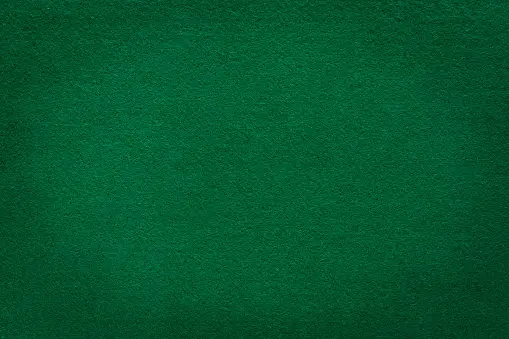
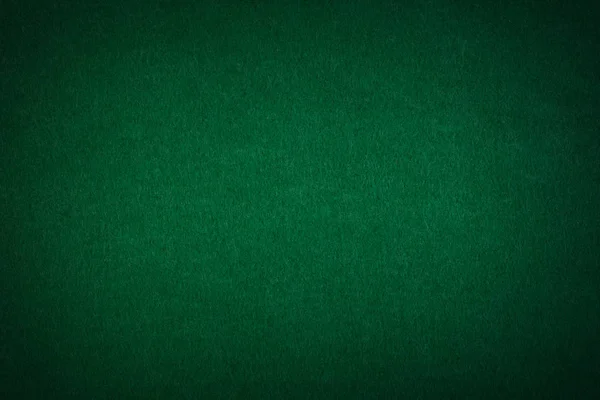
background and text colors

diff --git a/BlackJack/Form1.Designer.cs b/BlackJack/Form1.Designer.cs
@@ -61,15 +61,20 @@
             // lblscorePlayer
             // 
             lblscorePlayer.AutoSize = true;
+            lblscorePlayer.BackColor = Color.Transparent;
+            lblscorePlayer.Font = new Font("Segoe UI", 10F, FontStyle.Regular, GraphicsUnit.Point);
+            lblscorePlayer.ForeColor = SystemColors.ButtonFace;
             lblscorePlayer.Location = new Point(850, 421);
             lblscorePlayer.Name = "lblscorePlayer";
-            lblscorePlayer.Size = new Size(98, 25);
+            lblscorePlayer.Size = new Size(106, 28);
             lblscorePlayer.TabIndex = 0;
             lblscorePlayer.Text = "Your score:";
             // 
             // lblDealer
             // 
             lblDealer.AutoSize = true;
+            lblDealer.BackColor = Color.Transparent;
+            lblDealer.ForeColor = SystemColors.ButtonFace;
             lblDealer.Location = new Point(850, 9);
             lblDealer.Name = "lblDealer";
             lblDealer.Size = new Size(113, 25);
@@ -219,9 +224,12 @@
             // dealerDraws
             // 
             dealerDraws.AutoSize = true;
+            dealerDraws.BackColor = Color.Transparent;
+            dealerDraws.Font = new Font("Segoe UI", 10F, FontStyle.Regular, GraphicsUnit.Point);
+            dealerDraws.ForeColor = SystemColors.ButtonFace;
             dealerDraws.Location = new Point(399, 144);
             dealerDraws.Name = "dealerDraws";
-            dealerDraws.Size = new Size(118, 25);
+            dealerDraws.Size = new Size(128, 28);
             dealerDraws.TabIndex = 18;
             dealerDraws.Text = "Dealer draws:";
             // 

diff --git a/BlackJack/Properties/Resources.Designer.cs b/BlackJack/Properties/Resources.Designer.cs
@@ -59,5 +59,15 @@ namespace BlackJack.Properties {
                 resourceCulture = value;
             }
         }
+        
+        /// <summary>
+        ///   Looks up a localized resource of type System.Drawing.Bitmap.
+        /// </summary>
+        internal static System.Drawing.Bitmap backgroundl {
+            get {
+                object obj = ResourceManager.GetObject("backgroundl", resourceCulture);
+                return ((System.Drawing.Bitmap)(obj));
+            }
+        }
     }
 }

diff --git a/BlackJack/Form1.cs b/BlackJack/Form1.cs
@@ -15,6 +15,8 @@ namespace BlackJack
 
         public Form1()
         {
+
+            this.BackgroundImage = Properties.Resources.backgroundl;
             InitializeComponent();
         }
         private void Form1_Load(object sender, EventArgs e)
